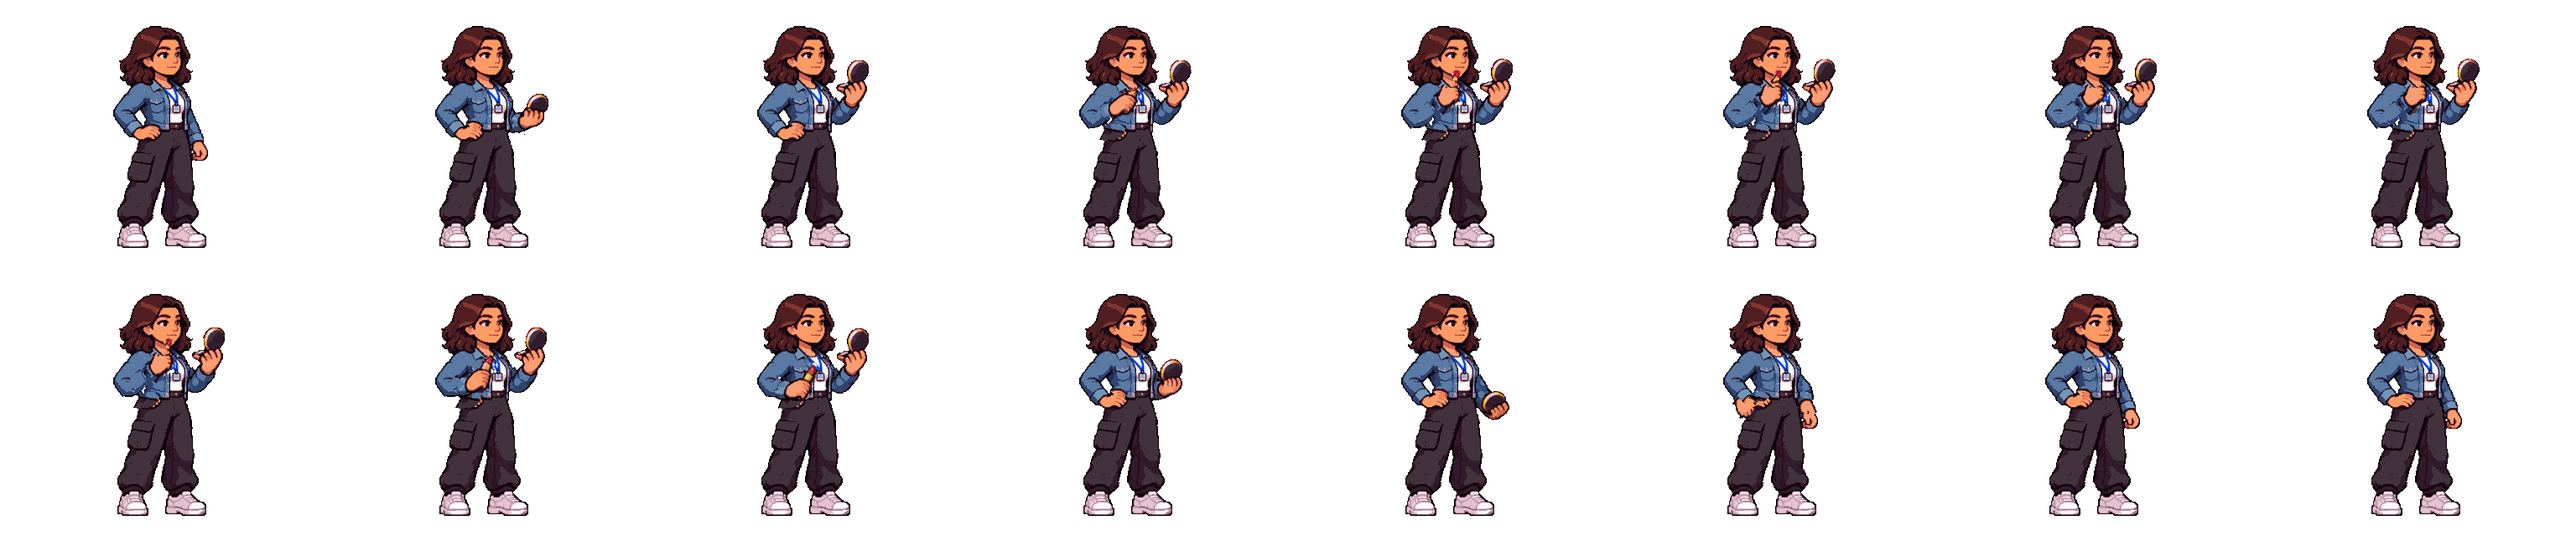
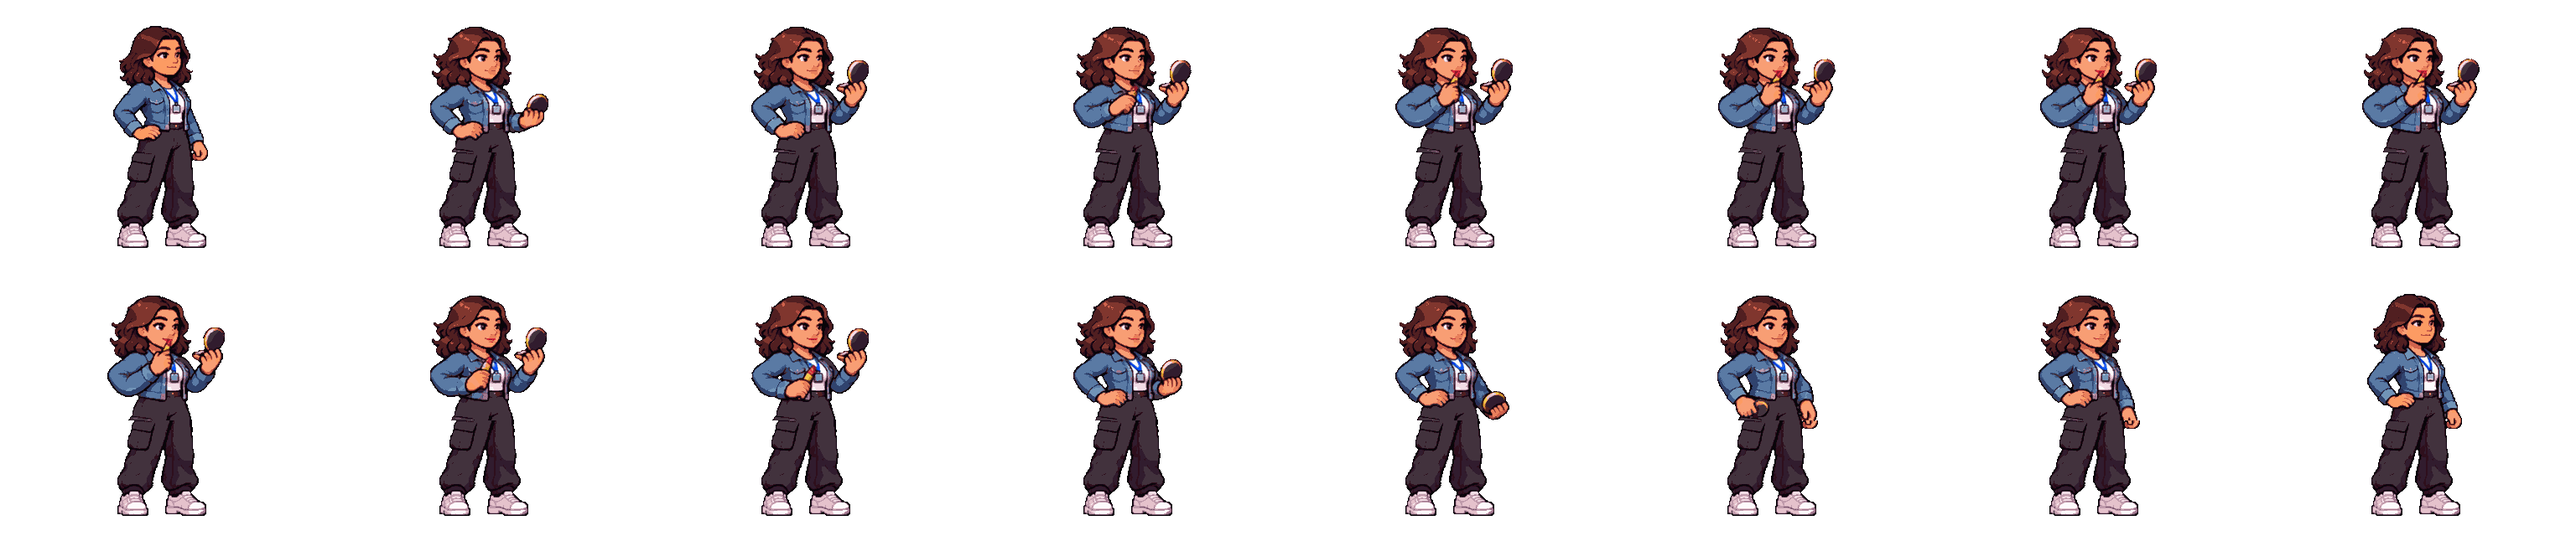
Zee: new back idle (arms down, full build), new back makeup, makeup idles keep her idle legs with a natural upper body in every view

diff --git a/src/main.js b/src/main.js
@@ -1,14 +1,14 @@
 // Game shell: loads Zee, runs the loop, draws the placeholder office + HUD, wires pause / touch UI.
-import { CONFIG } from './config.js?v=202611271703';
-import { loadCharacter, VERSION, LOOK, setLight } from './assets.js?v=202611271703';
-import { Input } from './input.js?v=202611271703';
-import { Zee } from './zee.js?v=202611271703';
-import { Game } from './game.js?v=202611271703';
-import { ENEMY_IDS } from './enemy.js?v=202611271703';
-import { drawHud as drawArcadeHud } from './hud.js?v=202611271703';
-import { Level, qualityDepartment } from './level.js?v=202611271703';
-import { Camera } from './camera.js?v=202611271703';
-import { unlock } from './sfx.js?v=202611271703';
+import { CONFIG } from './config.js?v=202611271717';
+import { loadCharacter, VERSION, LOOK, setLight } from './assets.js?v=202611271717';
+import { Input } from './input.js?v=202611271717';
+import { Zee } from './zee.js?v=202611271717';
+import { Game } from './game.js?v=202611271717';
+import { ENEMY_IDS } from './enemy.js?v=202611271717';
+import { drawHud as drawArcadeHud } from './hud.js?v=202611271717';
+import { Level, qualityDepartment } from './level.js?v=202611271717';
+import { Camera } from './camera.js?v=202611271717';
+import { unlock } from './sfx.js?v=202611271717';
 
 const { w: W, h: H } = CONFIG.view;
 const canvas = document.getElementById('game');

diff --git a/src/level.js b/src/level.js
@@ -20,8 +20,8 @@
 //   light: { rim, rimAlpha, rimPx, lightX, lightY, wash, washAlpha, feet } = how Zee and the enemies are lit in this room
 //   (rim / wash are [r,g,b]); the game eases from one room's light to the next (see setLight in assets.js).
 //   doorRight is the door to the NEXT room: while it is locked the player cannot pass it; no door (or unlocked) = open.
-import { CONFIG } from './config.js?v=202611271703';
-import { VERSION } from './assets.js?v=202611271703';
+import { CONFIG } from './config.js?v=202611271717';
+import { VERSION } from './assets.js?v=202611271717';
 
 const C = CONFIG.camera, F = CONFIG.floor;
 export const LAYER_H = 507;                       // layer height in pixels (the view shows 506.25)

diff --git a/src/game.js b/src/game.js
@@ -1,9 +1,9 @@
 // Game world: Zee + enemies, combat resolution, projectiles and all the "juice" (hit flash, sparks, shake, hit-stop, sound).
-import { CONFIG } from './config.js?v=202611271703';
-import { Enemy } from './enemy.js?v=202611271703';
-import { SOFT } from './zee.js?v=202611271703';
-import { sfx } from './sfx.js?v=202611271703';
-import { drawAnim } from './assets.js?v=202611271703';
+import { CONFIG } from './config.js?v=202611271717';
+import { Enemy } from './enemy.js?v=202611271717';
+import { SOFT } from './zee.js?v=202611271717';
+import { sfx } from './sfx.js?v=202611271717';
+import { drawAnim } from './assets.js?v=202611271717';
 
 const E = CONFIG.enemy;
 

diff --git a/src/enemy.js b/src/enemy.js
@@ -1,8 +1,8 @@
 // Enemy: a fighter with a small brain. It lines up with Zee, flanks, chains combos, sidesteps her swings, punishes her recovery,
 // throws call-centre headsets, and (navy + sporty, the "heavies") grabs and throws her.
 // Art comes from assets/characters/<id>/ ; every enemy shares this one brain.
-import { CONFIG } from './config.js?v=202611271703';
-import { frameAt, drawAnim, drawShadow, LOOK } from './assets.js?v=202611271703';
+import { CONFIG } from './config.js?v=202611271717';
+import { frameAt, drawAnim, drawShadow, LOOK } from './assets.js?v=202611271717';
 
 const E = CONFIG.enemy;
 const rnd = (a, b) => a + Math.random() * (b - a);

diff --git a/src/hud.js b/src/hud.js
@@ -1,8 +1,8 @@
 // Arcade HUD (early-2000s style): angled panels with white outlines, glossy bars, bold italic type.
 // Built from separate pieces drawn in game units, so it scales with the canvas at any resolution.
 // Top-left: portrait + HP bar + SP meter. Bottom-left: KO counter. All values come from the live game state.
-import { CONFIG } from './config.js?v=202611271703';
-import { VERSION } from './assets.js?v=202611271703';
+import { CONFIG } from './config.js?v=202611271717';
+import { VERSION } from './assets.js?v=202611271717';
 
 const portrait = new Image();
 portrait.src = 'assets/ui/zee_portrait.png?v=' + VERSION;

diff --git a/src/zee.js b/src/zee.js
@@ -1,7 +1,7 @@
 // Zee: the player character. A small state machine driven by input actions.
 // Movement, combat timing, and animation selection live here; art comes from the manifest (assets.js).
-import { CONFIG } from './config.js?v=202611271703';
-import { frameAt, drawAnim, drawShadow, LOOK } from './assets.js?v=202611271703';
+import { CONFIG } from './config.js?v=202611271717';
+import { frameAt, drawAnim, drawShadow, LOOK } from './assets.js?v=202611271717';
 
 const C = CONFIG.zee;
 // Front and back sheets are drawn as seen by the camera, so they are never mirrored (her badge and hand stay on the correct side).

diff --git a/src/camera.js b/src/camera.js
@@ -1,7 +1,7 @@
 // The world camera. The world is drawn through a zoomed-out camera (CONFIG.camera.zoom, about 0.71): 900 x 506 world units
 // are visible and rendered into the 640 x 360 screen. The camera follows Zee horizontally (with a little look-ahead in the
 // direction she faces) and is clamped to the level. It never scrolls vertically: the world is exactly one screen tall.
-import { CONFIG } from './config.js?v=202611271703';
+import { CONFIG } from './config.js?v=202611271717';
 
 export class Camera {
   constructor() { this.x = 0; this.px = 0; this.gx = 0; this.look = 0; this.ready = false; }

diff --git a/src/assets.js b/src/assets.js
@@ -1,6 +1,6 @@
 // Loads a character's manifest + strips and turns them into ready-to-play animation objects.
 // To swap art, replace the PNG strips / manifest in assets/characters/<name>/ - no code changes needed.
-import { CONFIG } from './config.js?v=202611271703';
+import { CONFIG } from './config.js?v=202611271717';
 
 // Release stamp, taken from this module's own URL (?v=...): every release uses new URLs so browsers never serve stale files.
 export const VERSION = new URL(import.meta.url).searchParams.get('v') || 'dev';

diff --git a/index.html b/index.html
@@ -93,7 +93,7 @@
 <div id="rotate"><div><h2>Rotate your phone</h2><p style="color:var(--mute)">This game plays in landscape.</p></div></div>
 <div id="loading"><div><div class="lt">CALL TERMINATED</div><div class="ls">is loading...</div></div></div>
 
-<script type="module" src="src/main.js?v=202611271703"></script>
+<script type="module" src="src/main.js?v=202611271717"></script>
 </body>
 </html>
 

diff --git a/src/input.js b/src/input.js
@@ -1,6 +1,6 @@
 // Unified input: keyboard on PC/laptop, floating joystick + buttons on touch devices.
 // The game only reads: input.axis (x,y in -1..1), input.run, and input.consume() (one-shot actions).
-import { CONFIG } from './config.js?v=202611271703';
+import { CONFIG } from './config.js?v=202611271717';
 
 export class Input {
   constructor(root = document) {

diff --git a/HANDOFF.md b/HANDOFF.md
@@ -70,6 +70,6 @@ zee.view = side/front/back (zee.js _dir() falls back to the side animation when 
 Masters: sprites/zee/master/zee_master_front_v1.png, _back_v1.png. All 10 moves exist front and back (idle, idle_makeup, walk, run, jump, punch_1-3, jump_kick, dodge); raw sheets sprites/zee/raw/<move>_front_v1.png / _back_v1.png, sizes in tools/zee-views.json (matched to the side view by hair size and height). Special, hurt, knockdown, get up, victory, interact and prone stay side view. Front/back attacks hit along the floor depth (game.js _zeeAttacks). Enemies get four directions later, when the user asks.
 
 ## Zee redo (2026-11-27)
-- Makeup idle in every view was rebuilt FROM the idle frame of that view (ref = first idle cell, only arms/hands/props move): idle_makeup_v5.png (side), idle_makeup_front_v2.png, idle_makeup_back_v2.png. Built at the idle's height and baseline; ShiftX lines up the legs (zee-sheets.ps1).
+- Makeup idle (all views): drawn from the idle frame of each view; tools/makeup-from-idle.ps1 (run by build-zee) keeps the idle legs + first/last frame and takes the upper body from the makeup strip. Back idle redone 2026-11-27 (idle_back_v2: arms down, full build) and back makeup from it (idle_makeup_back_v3).
 - dodge_front_v2: a real floor somersault toward the camera.
 - Front/back punches use both hands: punch_1 = left jab, punch_2 = right cross, punch_3 = two-fisted double punch (punch_*_front_v2 / _back_v2). Sizes in tools/zee-views.json.
